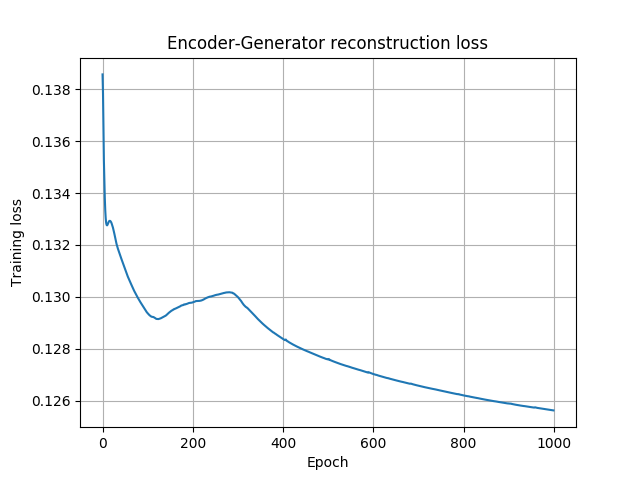
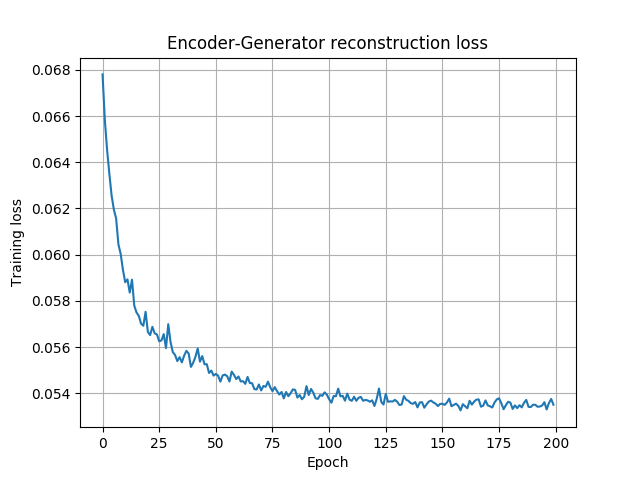
Working prosivic training

diff --git a/train_AAE.py b/train_AAE.py
@@ -196,7 +196,7 @@ def main(folding_id, inliner_classes, total_classes, folds=5, cfg = None):
     setup(G)
     G.weight_init(mean=0, std=0.02)
 
-    if cfg.training_mode = "GPND_default":
+    if cfg.training_mode == "GPND_default":
         D = Discriminator(channels = channels, architecture = architecture)
         setup(D)
         D.weight_init(mean=0, std=0.02)
@@ -205,7 +205,7 @@ def main(folding_id, inliner_classes, total_classes, folds=5, cfg = None):
     setup(E)
     E.weight_init(mean=0, std=0.02)
 
-    if cfg.training_mode = "GPND_default":
+    if cfg.training_mode == "GPND_default":
         if zd_merge:
             ZD = ZDiscriminator_mergebatch(zsize, batch_size).to(device)
         else:
@@ -217,11 +217,11 @@ def main(folding_id, inliner_classes, total_classes, folds=5, cfg = None):
     #lr = cfg.learning_rate
     betas = cfg.betas
 
-    G_optimizer = optim.Adam(G.parameters(), lr=cfg.lr_g, betas = betas)
-    E_optimizer = optim.Adam(E.parameters(), lr=cfg.lr_e, betas = betas)
     GE_optimizer = optim.Adam(list(E.parameters()) + list(G.parameters()), lr=cfg.lr_ge)
     
-    if cfg.training_mode = "GPND_default":
+    if cfg.training_mode == "GPND_default":
+        G_optimizer = optim.Adam(G.parameters(), lr=cfg.lr_g, betas = betas)
+        E_optimizer = optim.Adam(E.parameters(), lr=cfg.lr_e, betas = betas)
         D_optimizer = optim.Adam(D.parameters(), lr=cfg.lr_d, betas = betas)
         ZD_optimizer = optim.Adam(ZD.parameters(), lr=cfg.lr_zd, betas = betas)
 
@@ -232,7 +232,7 @@ def main(folding_id, inliner_classes, total_classes, folds=5, cfg = None):
     y_real_ = torch.ones(batch_size)
     y_fake_ = torch.zeros(batch_size)
 
-    if cfg.training_mode = "GPND_default":
+    if cfg.training_mode == "GPND_default":
         y_real_z = torch.ones(1 if zd_merge else batch_size)
         y_fake_z = torch.zeros(1 if zd_merge else batch_size)
 
@@ -240,7 +240,7 @@ def main(folding_id, inliner_classes, total_classes, folds=5, cfg = None):
     Gtrain_losses_diag = []
     Etrain_losses_diag = []
     GEtrain_losses_diag = []
-    if cfg.training_mode = "GPND_default":
+    if cfg.training_mode == "GPND_default":
         Dtrain_losses_diag = []
         ZDtrain_losses_diag = []
 
@@ -249,15 +249,15 @@ def main(folding_id, inliner_classes, total_classes, folds=5, cfg = None):
     for epoch in range(train_epoch):
         G.train()
         E.train()
-        if cfg.training_mode = "GPND_default":
+        if cfg.training_mode == "GPND_default":
             D.train()
             ZD.train()
+            Gtrain_loss = 0
+            Etrain_loss = 0
 
-        Gtrain_loss = 0
-        Etrain_loss = 0
         GEtrain_loss = 0
 
-        if cfg.training_mode = "GPND_default":
+        if cfg.training_mode == "GPND_default":
             Dtrain_loss = 0
             ZDtrain_loss = 0
 
@@ -269,10 +269,10 @@ def main(folding_id, inliner_classes, total_classes, folds=5, cfg = None):
         shuffle(data_train_x)
 
         if (epoch + 1) % cfg.n_epochs_between_lr_change == 0:
-            G_optimizer.param_groups[0]['lr'] /= 4
             GE_optimizer.param_groups[0]['lr'] /= 4
-            E_optimizer.param_groups[0]['lr'] /= 4
-            if cfg.training_mode = "GPND_default":
+            if cfg.training_mode == "GPND_default":
+                E_optimizer.param_groups[0]['lr'] /= 4
+                G_optimizer.param_groups[0]['lr'] /= 4
                 D_optimizer.param_groups[0]['lr'] /= 4
                 ZD_optimizer.param_groups[0]['lr'] /= 4
             print("learning rate change!")
@@ -285,8 +285,8 @@ def main(folding_id, inliner_classes, total_classes, folds=5, cfg = None):
            # print("Shape of batch:")
            # print(x.shape)
             #############################################
-            if cfg.training_mode = "GPND_default":
-                D.zero_grad() 
+            if cfg.training_mode == "GPND_default":
+                D.zero_grad()
 
                 D_result = D(x).squeeze() # removes all dimensions with size 1
                 D_real_loss = BCE_loss(D_result, y_real_)
@@ -374,7 +374,7 @@ def main(folding_id, inliner_classes, total_classes, folds=5, cfg = None):
                 z = E(x)
                 x_d = G(z)
 
-                Recon_loss = cfg.rec_loss_weight*F.binary_cross_entropy(x_d, x)
+                Recon_loss = BCE_loss(x_d, x)
 
                 Recon_loss.backward()
 
@@ -419,7 +419,7 @@ def main(folding_id, inliner_classes, total_classes, folds=5, cfg = None):
             with torch.no_grad():
                 resultsample = G(sample).cpu()
                 save_image(resultsample.view(cfg.sample_size, channels, image_height, image_width), train_dir + 'sample_' + str(epoch) + '.png', nrow = cfg.sample_rows)
-Gtrain_loss, Dtrain_loss, ZDtr
+
     model_dir = log_dir + "models/"
     if not os.path.exists(model_dir):
         os.makedirs(model_dir)
@@ -441,7 +441,7 @@ Gtrain_loss, Dtrain_loss, ZDtr
     plt.grid()
     plt.plot(plot_epochs, GEtrain_losses_diag, label="GE() loss")
     plt.savefig(train_dir+'recon_loss.png')
-    
+
     if cfg.training_mode == "GPND_default":
         plt.clf()
         plt.title('Generator loss')

diff --git a/log/prosivic/debug/configuration.py b/log/prosivic/debug/configuration.py
@@ -19,9 +19,6 @@ class Configuration(object):
     experiment_name = "debug"
     log_dir = './log/' + dataset + '/' + experiment_name + '/'
 
-
-
-
     # Diagnostics
     sample_size = 16
     sample_rows = 4 # nrow to save_image grid
@@ -35,9 +32,53 @@ class Configuration(object):
     plot_prc = True
 
     # dataset specific options below
+    if dataset == "prosivic":
+        training_mode = "autoencoder"
+        # Hyperparameters
+        betas = (0.9,0.999) # adam solver standard is (0.5, 0.999), GPND standard is (0.9,0.999)
+#        learning_rate = 0.001
+        n_train_epochs = 200
+        n_epochs_between_lr_change = 80
+        num_sample_epochs = 10
+        lr_g  = 0.002
+        lr_e  = 0.002
+        lr_d  = 0.002
+        lr_ge = 0.002
+        lr_zd = 0.002
+        rec_loss_weight = 1
+        weight_g_loss = 1
+        architecture = "0_4_0_16_256_4_2_1"
+        architecture = "0_4_1_16_512_5_2_2"
+        n_dense_units = None
+        inliers_name = "sunny"
+        outliers_name = "foggy"
+        zd_n_layers = 3
+        zd_out_units = [256,256,1]
 
-    if dataset == "dreyeve":
+        # Dataset options
+        image_height = 256
+        image_width = 256
+        channels = 3
+        model_name = "_".join([inliers_name, architecture])
 
+        experiment_name = "debug"
+        batch_size = 10
+        use_batchnorm = True
+        data_div = 70
+        n_train = 7000 // data_div
+        n_val = 1413 // data_div
+        n_test = 787 // data_div # for GPND algorithm, the test set is split into val and test set during testing, since the valset contains outliers in order to compute an optimal threshold. This is used to compute some of the output values, but not AUPRIN or AUROC, which are threshold independent.
+        n_test_in = 787 // data_div
+
+        img_folder =   "../weather_detection_data/prosivic/"
+        train_folder = "../weather_detection_data/prosivic/train/"
+        val_folder =   "../weather_detection_data/prosivic/val/"
+        test_in_folder =  "../weather_detection_data/prosivic/test/in/"
+        test_out_folder =  "../weather_detection_data/prosivic/test/out/"
+
+
+    elif dataset == "dreyeve":
+        training_mode = "autoencoder"
         architecture = "0_6_0_16_256_4_2_1"
         inliers_name = "sunny_highway"
         outliers_name = "rainy_highway"
@@ -80,48 +121,6 @@ class Configuration(object):
         test_out_folder = "../weather_detection_data/dreyeve/sunny_highway_countryside_morning_evening_vs_rainy_highway_countryside_morning_evening/test/out/foggy"
 
     
-    elif dataset == "prosivic":
-        # Hyperparameters
-        betas = (0.9,0.999) # adam solver standard is (0.5, 0.999), GPND standard is (0.9,0.999)
-#        learning_rate = 0.001
-        n_train_epochs = 1000
-        n_epochs_between_lr_change = n_train_epochs+1
-        num_sample_epochs = 10
-        lr_g  = 0.002
-        lr_e  = 0.002
-        lr_d  = 0.002
-        lr_ge = 0.002
-        lr_zd = 0.002
-        rec_loss_weight = 1
-
-        architecture = "0_4_0_16_256_4_2_1"
-        n_dense_units = None
-        inliers_name = "sunny"
-        outliers_name = "foggy"
-        zd_n_layers = 3
-        zd_out_units = [256,256,1]
-
-        # Dataset options
-        image_height = 256
-        image_width = 256
-        channels = 3
-        model_name = "_".join([inliers_name, architecture])
-
-        experiment_name = "debug"
-        batch_size = 5
-        use_batchnorm = True
-        data_div = 1400
-        n_train = 7000 // data_div
-        n_val = 1413 // data_div
-        n_test = 787 // data_div # for GPND algorithm, the test set is split into val and test set during testing, since the valset contains outliers in order to compute an optimal threshold. This is used to compute some of the output values, but not AUPRIN or AUROC, which are threshold independent.
-        n_test_in = 787 // data_div
-
-        img_folder =   "../weather_detection_data/prosivic/"
-        train_folder = "../weather_detection_data/prosivic/train/"
-        val_folder =   "../weather_detection_data/prosivic/val/"
-        test_in_folder =  "../weather_detection_data/prosivic/test/in/"
-        test_out_folder =  "../weather_detection_data/prosivic/test/out/"
-
     elif dataset == "mnist":
         batch_size = 128
         architecture = None
@@ -144,6 +143,6 @@ class Configuration(object):
         out_filenames = loadbdd100k.get_namelist_from_file(out_file)
         norm_spec = [["weather", ["clear","partly cloudy", "overcast"]],["scene", "highway"],["timeofday", "daytime"]]
         out_spec = [["weather", ["rainy", "snowy", "foggy"]],["scene", "highway"],["timeofday",["daytime","dawn/dusk","night"]]]
-# Training logged at Mon, 03 Dec 2018 18:52:49 UTC
-# Total training time:	0h1m44.7s
-# Average time/epoch:	0m0.10s
+# Training logged at Wed, 05 Dec 2018 14:20:34 UTC
+# Total training time:	0h1m38.0s
+# Average time/epoch:	0m0.49s

diff --git a/configuration.py b/configuration.py
@@ -35,19 +35,20 @@ class Configuration(object):
     if dataset == "prosivic":
         training_mode = "autoencoder"
         # Hyperparameters
-        betas = (0.5,0.999) # adam solver standard is (0.5, 0.999), GPND standard is (0.9,0.999)
+        betas = (0.9,0.999) # adam solver standard is (0.5, 0.999), GPND standard is (0.9,0.999)
 #        learning_rate = 0.001
-        n_train_epochs = 1000
-        n_epochs_between_lr_change = n_train_epochs+1
+        n_train_epochs = 200
+        n_epochs_between_lr_change = 80
         num_sample_epochs = 10
         lr_g  = 0.002
         lr_e  = 0.002
         lr_d  = 0.002
         lr_ge = 0.002
         lr_zd = 0.002
-        rec_loss_weight = 10
-        weight_g_loss = 0.1
-        architecture = "0_3_0_64_256_4_2_1"
+        rec_loss_weight = 1
+        weight_g_loss = 1
+        architecture = "0_4_0_16_256_4_2_1"
+        architecture = "0_4_1_16_512_5_2_2"
         n_dense_units = None
         inliers_name = "sunny"
         outliers_name = "foggy"
@@ -63,17 +64,17 @@ class Configuration(object):
         experiment_name = "debug"
         batch_size = 10
         use_batchnorm = True
-        data_div = 140
+        data_div = 70
         n_train = 7000 // data_div
         n_val = 1413 // data_div
-        n_test = 787 // data_div # for GPND algorithm, the test set is split into val and test set during testing, since the valset contains outliers in order to compute an optimal threshold. This is used to compute some of the output values, but not AUPRIN or AUROC, which are threshold independent.
+        n_test = 787*2 // data_div # for GPND algorithm, the test set is split into val and test set during testing, since the valset contains outliers in order to compute an optimal threshold. This is used to compute some of the output values, but not AUPRIN or AUROC, which are threshold independent.
         n_test_in = 787 // data_div
 
         img_folder =   "../weather_detection_data/prosivic/"
         train_folder = "../weather_detection_data/prosivic/train/"
         val_folder =   "../weather_detection_data/prosivic/val/"
         test_in_folder =  "../weather_detection_data/prosivic/test/in/"
-        test_out_folder =  "../weather_detection_data/prosivic/test/out/"
+        test_out_folder =  "../weather_detection_data/prosivic/test/out/foggy/"
 
 
     elif dataset == "dreyeve":
@@ -117,7 +118,7 @@ class Configuration(object):
         train_folder = "../weather_detection_data/dreyeve/sunny_highway_countryside_morning_evening_vs_rainy_highway_countryside_morning_evening/train/"
         val_folder =   "../weather_detection_data/dreyeve/sunny_highway_countryside_morning_evening_vs_rainy_highway_countryside_morning_evening/val/"
         test_in_folder =  "../weather_detection_data/dreyeve/sunny_highway_countryside_morning_evening_vs_rainy_highway_countryside_morning_evening/test/in/"
-        test_out_folder = "../weather_detection_data/dreyeve/sunny_highway_countryside_morning_evening_vs_rainy_highway_countryside_morning_evening/test/out/foggy"
+        test_out_folder = "../weather_detection_data/dreyeve/sunny_highway_countryside_morning_evening_vs_rainy_highway_countryside_morning_evening/test/out/"
 
     
     elif dataset == "mnist":

diff --git a/novelty_detector.py b/novelty_detector.py
@@ -694,7 +694,7 @@ def main(folding_id, inliner_classes, total_classes, folds=5, cfg = None):
         return results
 
     else: # this is used in SMILE experiments, to get only metrics specified in reuse_results.get_performace_metrics
-        log = ["Testing started at %s"%time.strftime("%a, %d %b %Y %H:%M:%S UTC", gmtime())]
+        log = ["Testing started at %s"%time.strftime("%a, %d %b %Y %H:%M:%S UTC")]
         total_time = []
         for p in cfg.percentages:
             _, percentage_time = test(data_test,p)

diff --git a/net.py b/net.py
@@ -863,6 +863,7 @@ class Encoder(nn.Module):
             else:
                 x = self.output_convlayer(x)
             #print("Output: ", x.shape)
+            #print("Image dim: %d, encoded dim: %d"%(input.shape[1]*input.shape[2]*input.shape[3],x.shape[1]*x.shape[2]*x.shape[3]))
             return x
 
 class ZDiscriminator(nn.Module):

diff --git a/utils/reuse_results.py b/utils/reuse_results.py
@@ -24,7 +24,7 @@ def get_performance_metrics(test_dir = cfg.log_dir + "test/", experiment_name = 
     results = load_results(test_dir, experiment_name)
     output_str = []
     for y in results:
-        y_output_str
+        y_output_str = ""
         percentage = y[0]
         result = y[1]
         y_true = [x[0] for x in result]
